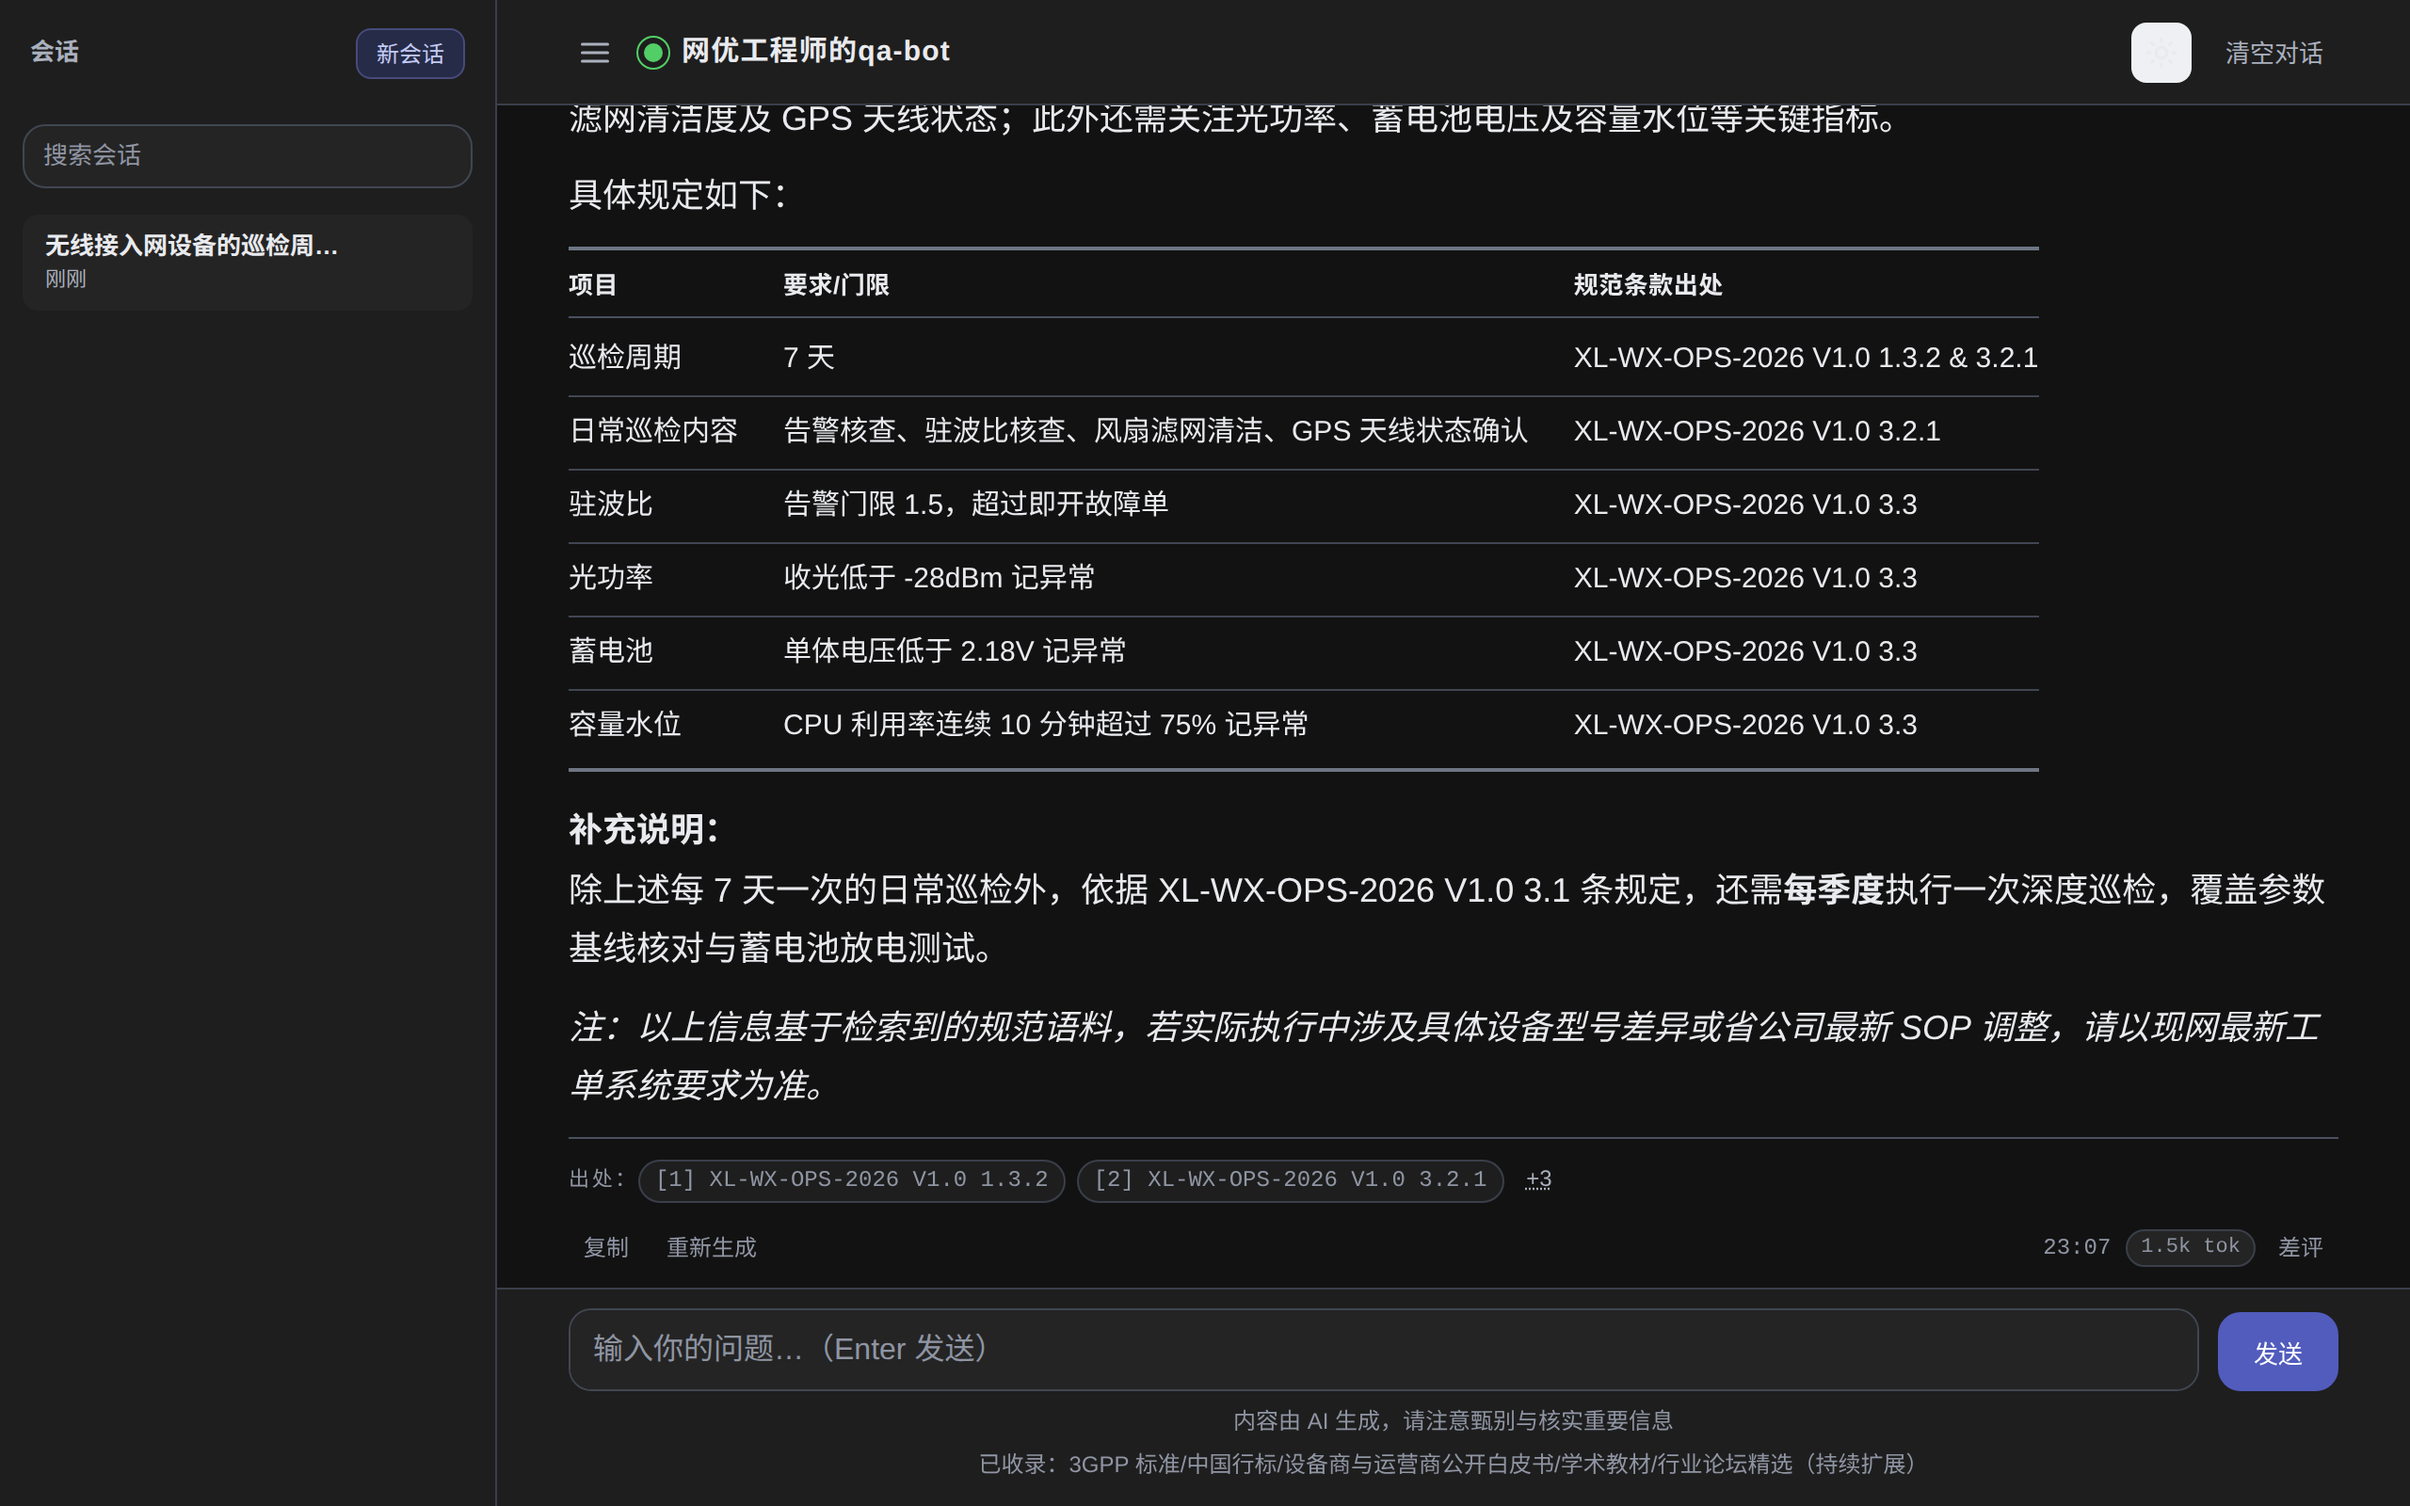
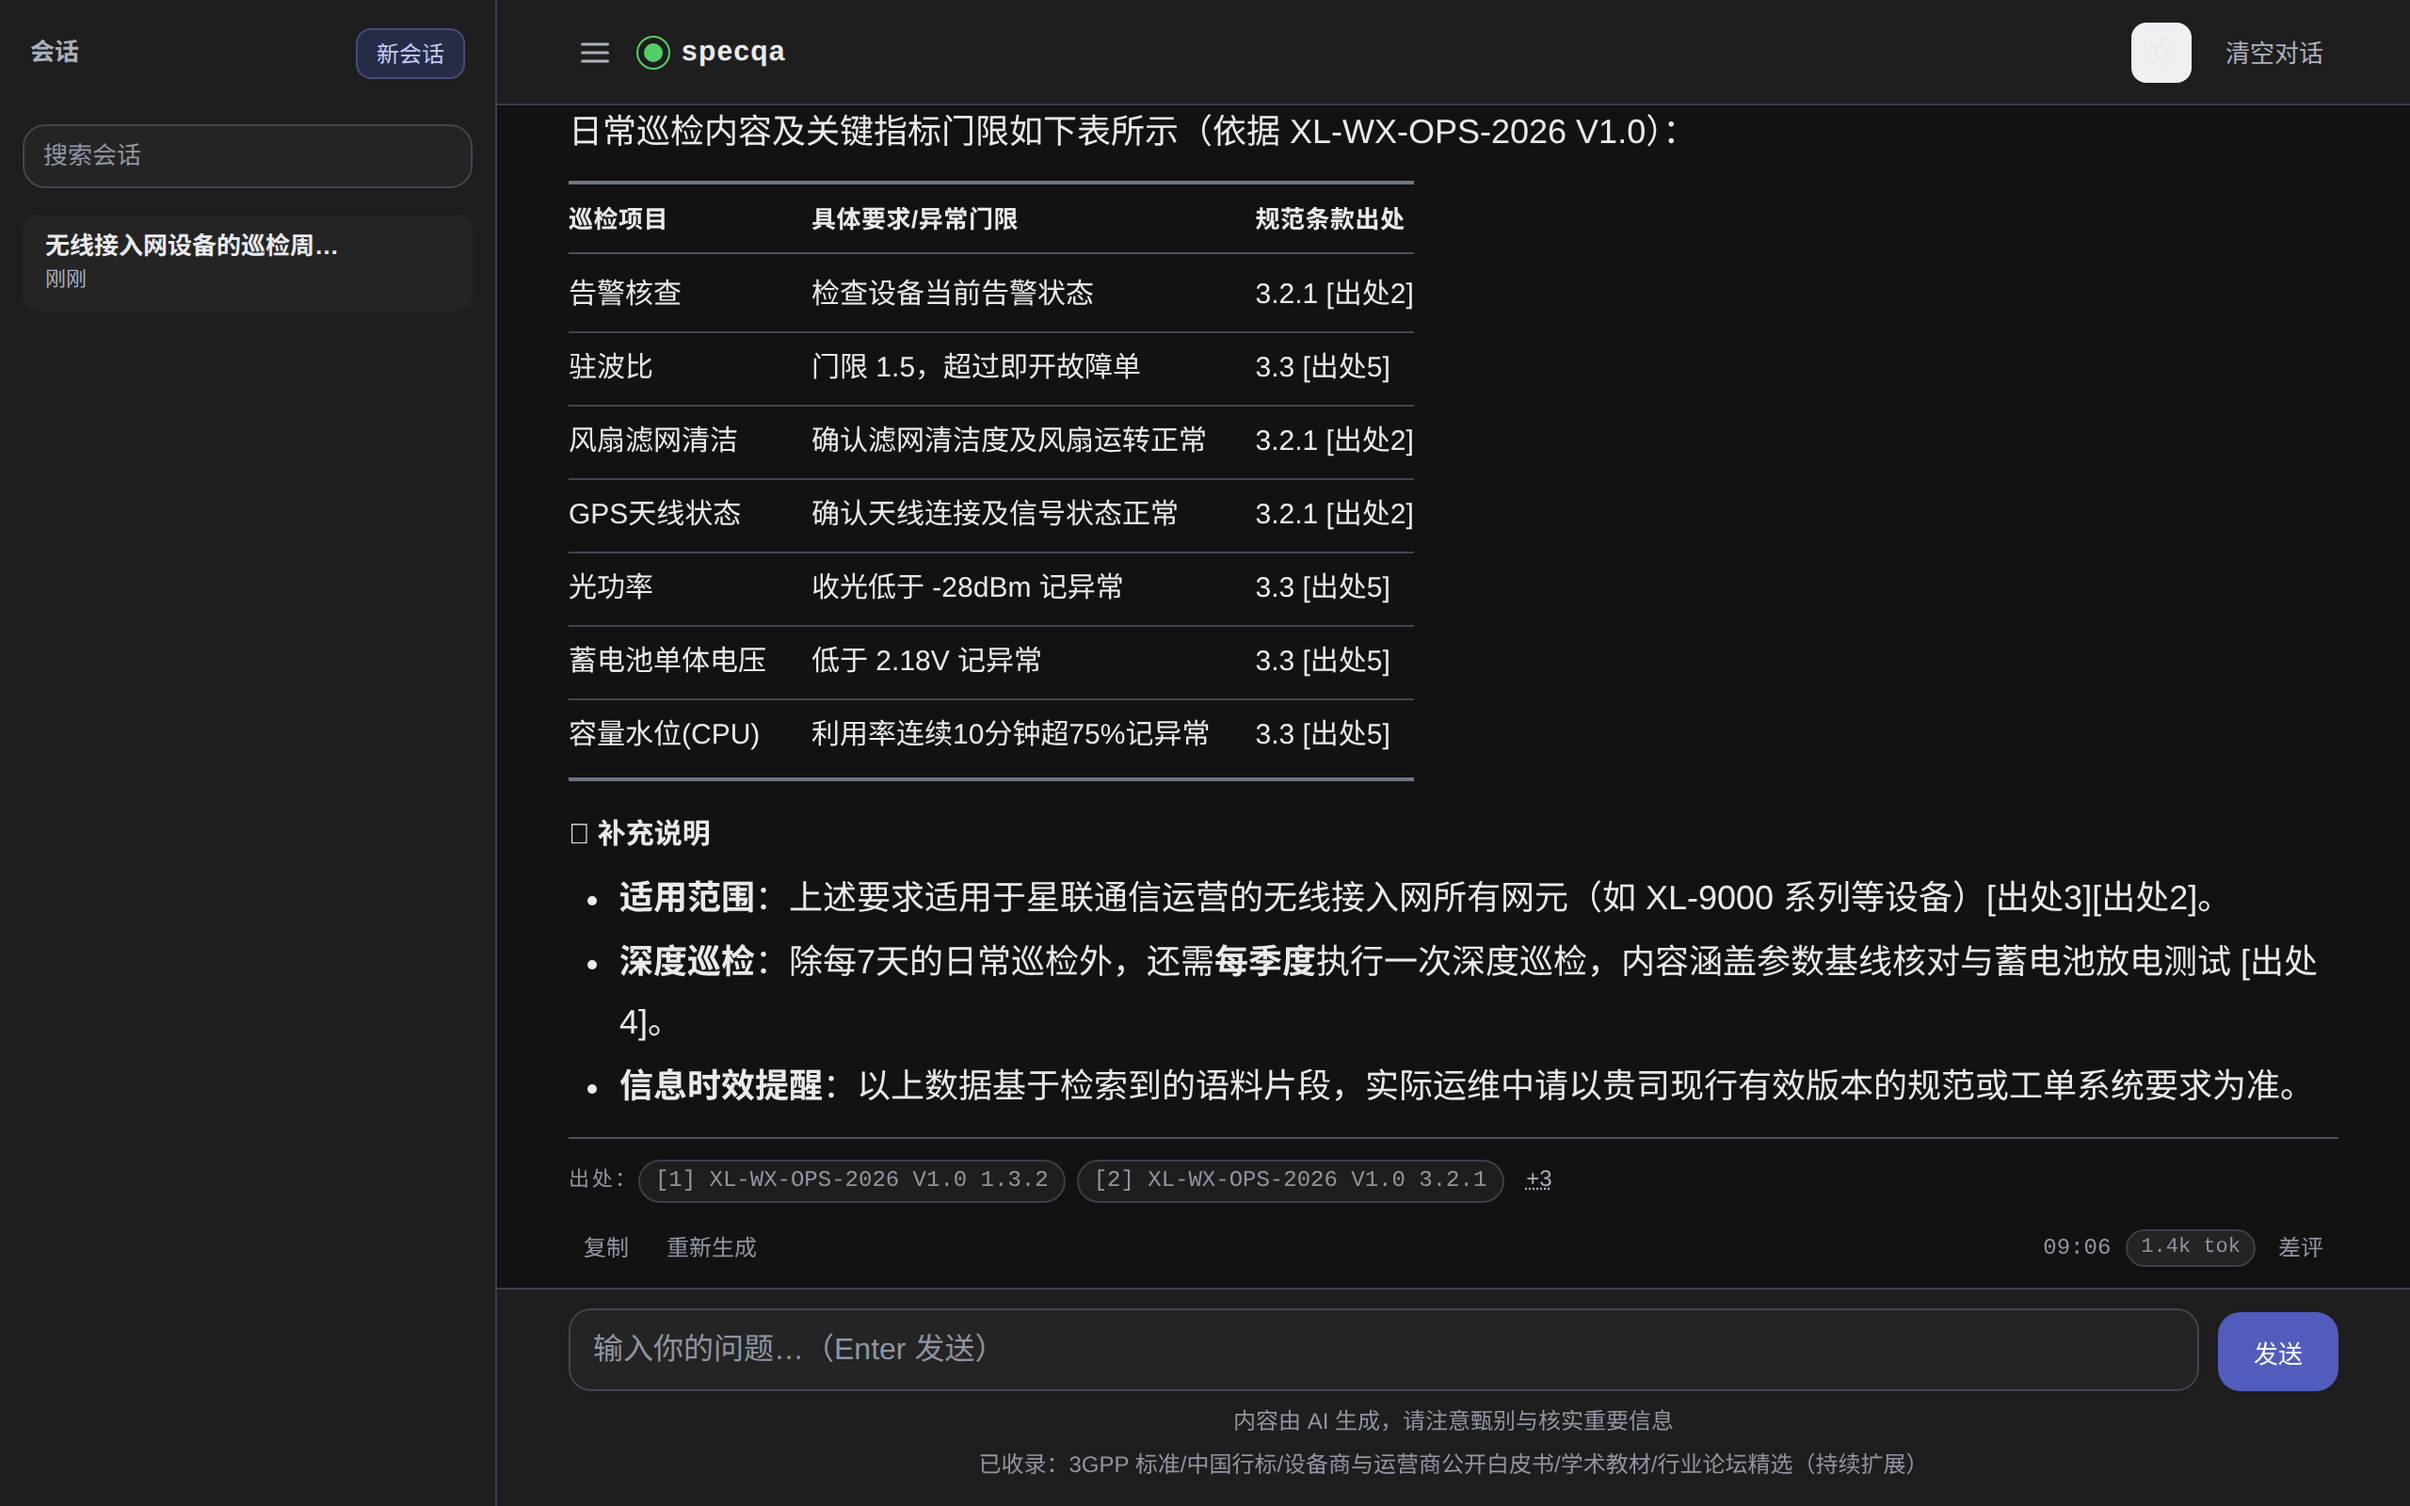
盲测收成笔：bot_name 默认改 specqa（demo 语义，消身份分裂）；页脚语料文案 demo 态化（原 3GPP 白皮书列举与 demo 库不符）；五镜重制+04 拒答镜 DOM 判据复验（提示条在位；新会话直问偶发不显记为前端已知项——服务端事件与单测均绿）；README 六处修正（64 件 1341 用例/ADR 公开12内部21/撤单文件行数行/去防御性措辞/域无关表述软化/config.json FAQ）；/api/version 端点并前笔；视频件按主理人令撤

diff --git a/frontend/src/App.vue b/frontend/src/App.vue
@@ -938,7 +938,7 @@ onBeforeUnmount(function () {
           <button class="send" id="sendBtn" type="button" :class="{ stop: state.streaming }" @click="onSendBtn">{{ state.streaming ? '停止' : '发送' }}</button>
         </div>
         <div class="disclaimer">内容由 AI 生成，请注意甄别与核实重要信息</div>
-        <div class="disclaimer coverage">已收录：3GPP 标准/中国行标/设备商与运营商公开白皮书/学术教材/行业论坛精选（持续扩展）</div>
+        <div class="disclaimer coverage">已收录：规范类语料（demo 库：企业运维规范 51 块；生产库约 8.3 万块，版权约束不入公开仓）</div>
         <!-- 公开版：备案脚注按发布形态移除 -->
       </footer>
     </div>

diff --git a/static/index.html b/static/index.html
@@ -350,7 +350,7 @@
     <button class="send" id="sendBtn" type="button">发送</button>
   </div>
   <div class="disclaimer">内容由 AI 生成，请注意甄别与核实重要信息</div>
-  <div class="disclaimer coverage">已收录：3GPP 标准/中国行标/设备商与运营商公开白皮书/学术教材/行业论坛精选（持续扩展）</div>
+  <div class="disclaimer coverage">已收录：规范类语料（demo 库：企业运维规范 51 块；生产库约 8.3 万块，版权约束不入公开仓）</div>
   <!-- 公开版：备案脚注按发布形态移除 -->
 </footer>
 <button class="jump" id="jumpBtn" type="button" aria-label="回到底部">

diff --git a/tests/test_off_topic_note.py b/tests/test_off_topic_note.py
@@ -221,7 +221,7 @@ class FrontendSurfaceTest(unittest.TestCase):
         self.assertIn("offtopic note", html)
         # 页脚覆盖公告（P2-17 期望管理）
         self.assertIn(
-            "已收录：3GPP 标准/中国行标/设备商与运营商公开白皮书/学术教材/行业论坛精选（持续扩展）",
+            "已收录：规范类语料（demo 库：企业运维规范 51 块；生产库约 8.3 万块，版权约束不入公开仓）",
             html)
 
     def test_vue_frontend_wiring(self):
